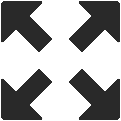
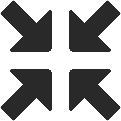
Overall improvement, added basic ui functionality to DetailedView

diff --git a/core/gallery/detailed_view.py b/core/gallery/detailed_view.py
@@ -4,6 +4,7 @@ import core.common.constants as constants
 from core.common.constants import Colors as colors
 from core.common.names import *
 import core.common.resources as cr
+from gui.image_ui_layer import ImageUiLayer
 from gui.zoom_view import ZoomView
 from helper_kit.relative_rect import RelRect
 from core.common import utils, assets
@@ -16,15 +17,7 @@ class DetailedView:
     def __init__(self):
         self.last_ratio = utils.get_aspect_ratio(cr.ws())
 
-        def test_func():
-            x = self.image_box.get()
-            return x.x,x.y,x.w, x.w
-
-        self.test_button = Button(
-            "test button",
-            RelRect(test_func, (0.0, 0.0), (0.1, 0.1)),
-            assets.ui_buttons["reset"],
-        )
+        self.image_ui_layer = ImageUiLayer()
 
         self.image_pos: Optional[Vector2] = Vector2(0.2, 0.1)
         self.image_size: Optional[Vector2] = Vector2(0.8, 0.65)
@@ -119,21 +112,10 @@ class DetailedView:
 
         self.zoom_view.update()
 
-    def check_events(self):
-        self.test_button.check_events()
+    def check_mouse_events(self):
         m_rect = cr.event_holder.mouse_rect
         held = cr.event_holder.mouse_held_keys[0]
         clicked = cr.event_holder.mouse_pressed_keys[0]
-
-        if cr.event_holder.window_resized:
-            self.resize_boxes()
-
-        self.zoom_view.check_events()
-
-        if pgl.K_SPACE in cr.event_holder.pressed_keys:
-            self.zoom_view.image = random.choice(assets.pics)
-            self.zoom_view.reset()
-            self.zoom_view.update()
 
         if (
             m_rect.colliderect(self.image_box.get())
@@ -172,6 +154,22 @@ class DetailedView:
         if self.y_locked:
             self.resize_y_request = cr.event_holder.mouse_pos.y
 
+    def check_events(self):
+        if cr.event_holder.window_resized:
+            self.resize_boxes()
+
+        self.image_ui_layer.check_events()
+        if not self.image_ui_layer.any_hovered:
+            self.check_mouse_events()
+            self.zoom_view.check_events()
+        else:
+            self.zoom_view.is_grabbing = False
+
+        if pgl.K_SPACE in cr.event_holder.pressed_keys:
+            self.zoom_view.image = random.choice(assets.pics)
+            self.zoom_view.reset()
+            self.zoom_view.update()
+
         if self.x_locked or self.y_locked:
             self.resize_boxes()
 
@@ -190,8 +188,7 @@ class DetailedView:
         self.top_box.render(colors.GIMP_1, colors.GIMP_2)
         self.bottom_box.render(colors.GIMP_1, colors.GIMP_2)
 
-
-        self.test_button.render()
+        self.image_ui_layer.render()
 
         if cr.event_holder.should_render_debug:
             self.render_debug()

diff --git a/gui/button.py b/gui/button.py
@@ -11,36 +11,44 @@ from core.common import utils
 class Button:
     __id = 0
 
-    def __init__(self, name: str, rel_rect: RelRect, image: Texture):
+    def __init__(
+        self, name: str, rel_rect: RelRect, image: Texture, on_click_action=None
+    ):
         self.id_ = Button.__id
         Button.__id += 1
         self.name = name
         self.rel_rect: RelRect = rel_rect
         self.image = image
-        self.on_click_action = None
+        self.on_click_action = on_click_action
+        self.is_hovered = False
 
     def check_events(self):
         this = self.rel_rect.get()
         mr = cr.event_holder.mouse_rect
         held = cr.event_holder.mouse_held_keys[0]
         released = cr.event_holder.mouse_released_keys[0]
+        self.is_hovered = False
 
-        if mr.colliderect(this) and released:
-            if callable(self.on_click_action):
-                self.on_click_action()
+        if mr.colliderect(this):
+            self.is_hovered = True
 
-            print(f"Clicked on button: {self.name}, id: {self.id_}")
+            if released:
+                if callable(self.on_click_action):
+                    self.on_click_action()
+                    cr.log.write_log(f"Clicked on button: {self.name} with id: {self.id_}"
+                        ,LogLevel.DEBUG)
 
     def render_debug(self):
         ...
 
     def render(self):
-        mr = cr.event_holder.mouse_rect
-        this = self.rel_rect.get()
+        # mr = cr.event_holder.mouse_rect
+        # this = self.rel_rect.get()
+        #
+        # if not mr.colliderect(this):
+        #     return
 
-        if not mr.colliderect(this): return
-
-        self.image.draw(None,self.rel_rect.get())
+        self.image.draw(None, self.rel_rect.get())
 
         if cr.event_holder.should_render_debug:
             self.render_debug()

diff --git a/gui/image_ui_layer.py b/gui/image_ui_layer.py
@@ -1,0 +1,62 @@
+from core.common.utils import *
+from core.common.enums import *
+import core.common.constants as constants
+from core.common.constants import Colors as colors
+from core.common.names import *
+import core.common.resources as cr
+from gui.button import Button
+from gui.ui_layer import UiLayer
+from helper_kit.relative_rect import RelRect
+from core.common import utils, assets
+
+
+class ImageUiLayer(UiLayer):
+    def __init__(self):
+        super().__init__()
+
+        def source_function():
+            x = cr.gallery.detailed_view.image_box.get()
+            return x.x, x.y, x.w, x.w
+
+        def reset_function():
+            cr.gallery.detailed_view.zoom_view.reset()
+            cr.gallery.detailed_view.zoom_view.check_events()
+
+        R = lambda *x: RelRect(source_function, *x)
+
+        h_step = 0.06
+
+        enter_fs_button = Button(
+            "enter fullscreen",
+            R((0.95, h_step * 0), (0.05, 0.05)),
+            assets.ui_buttons["fullscreen_enter"],
+        )
+
+        zoom_in_button = Button(
+            "zoom-in", R((0.95, h_step * 1), (0.05, 0.05)), assets.ui_buttons["zoom_in"]
+        )
+
+        zoom_out_button = Button(
+            "zoom-out",
+            R((0.95, h_step * 2), (0.05, 0.05)),
+            assets.ui_buttons["zoom_out"],
+        )
+
+        reset_button = Button(
+            "reset",
+            R((0.95, h_step * 3), (0.05, 0.05)),
+            assets.ui_buttons["reset"],
+            reset_function,
+        )
+
+        self.buttons.extend(
+            [enter_fs_button, zoom_in_button, zoom_out_button, reset_button]
+        )
+
+    def check_events(self):
+        super().check_events()
+        if self.any_hovered:
+            cr.mouse.current_cursor = pgl.SYSTEM_CURSOR_HAND
+
+    def render(self):
+        super().render()

diff --git a/gui/ui_layer.py b/gui/ui_layer.py
@@ -4,16 +4,23 @@ import core.common.constants as constants
 from core.common.constants import Colors as colors
 from core.common.names import *
 import core.common.resources as cr
+from gui.button import Button
 from helper_kit.relative_rect import RelRect
 from core.common import utils
 
 
 class UiLayer:
     def __init__(self):
-        ...
+        self.buttons: list[Button] = []
+        self.any_hovered = False
 
     def check_events(self):
-        ...
+        self.any_hovered = False
+        for button in self.buttons:
+            button.check_events()
+            if button.is_hovered:
+                self.any_hovered = True
 
     def render(self):
-        ...
+        for button in self.buttons:
+            button.render()

diff --git a/helper_kit/relative_rect.py b/helper_kit/relative_rect.py
@@ -29,15 +29,13 @@ class RelRect:
         fun_out = self.scale_source_function()
 
         if len(fun_out) == 2:
-            w,h = fun_out
+            w, h = fun_out
 
         elif len(fun_out) == 4:
-            pos_rel.x,pos_rel.y,w,h = fun_out
+            pos_rel.x, pos_rel.y, w, h = fun_out
 
         else:
             raise ValueError("Bad function output.")
-
-
 
         self.__get_result.x = self.rect.x * w - 0.5 + pos_rel.x
         self.__get_result.w = self.rect.w * w + 1

diff --git a/core/common/assets.py b/core/common/assets.py
@@ -18,6 +18,8 @@ def init_assets():
         for i in os.listdir(os.path.abspath("./test_assets"))
     ]
 
+    cr.log.write_log("Loading the assets from disk...", LogLevel.DEBUG)
+
     expected_ui_buttons = 12
 
     ui_buttons_path = os.path.abspath("./assets/ui-buttons")
